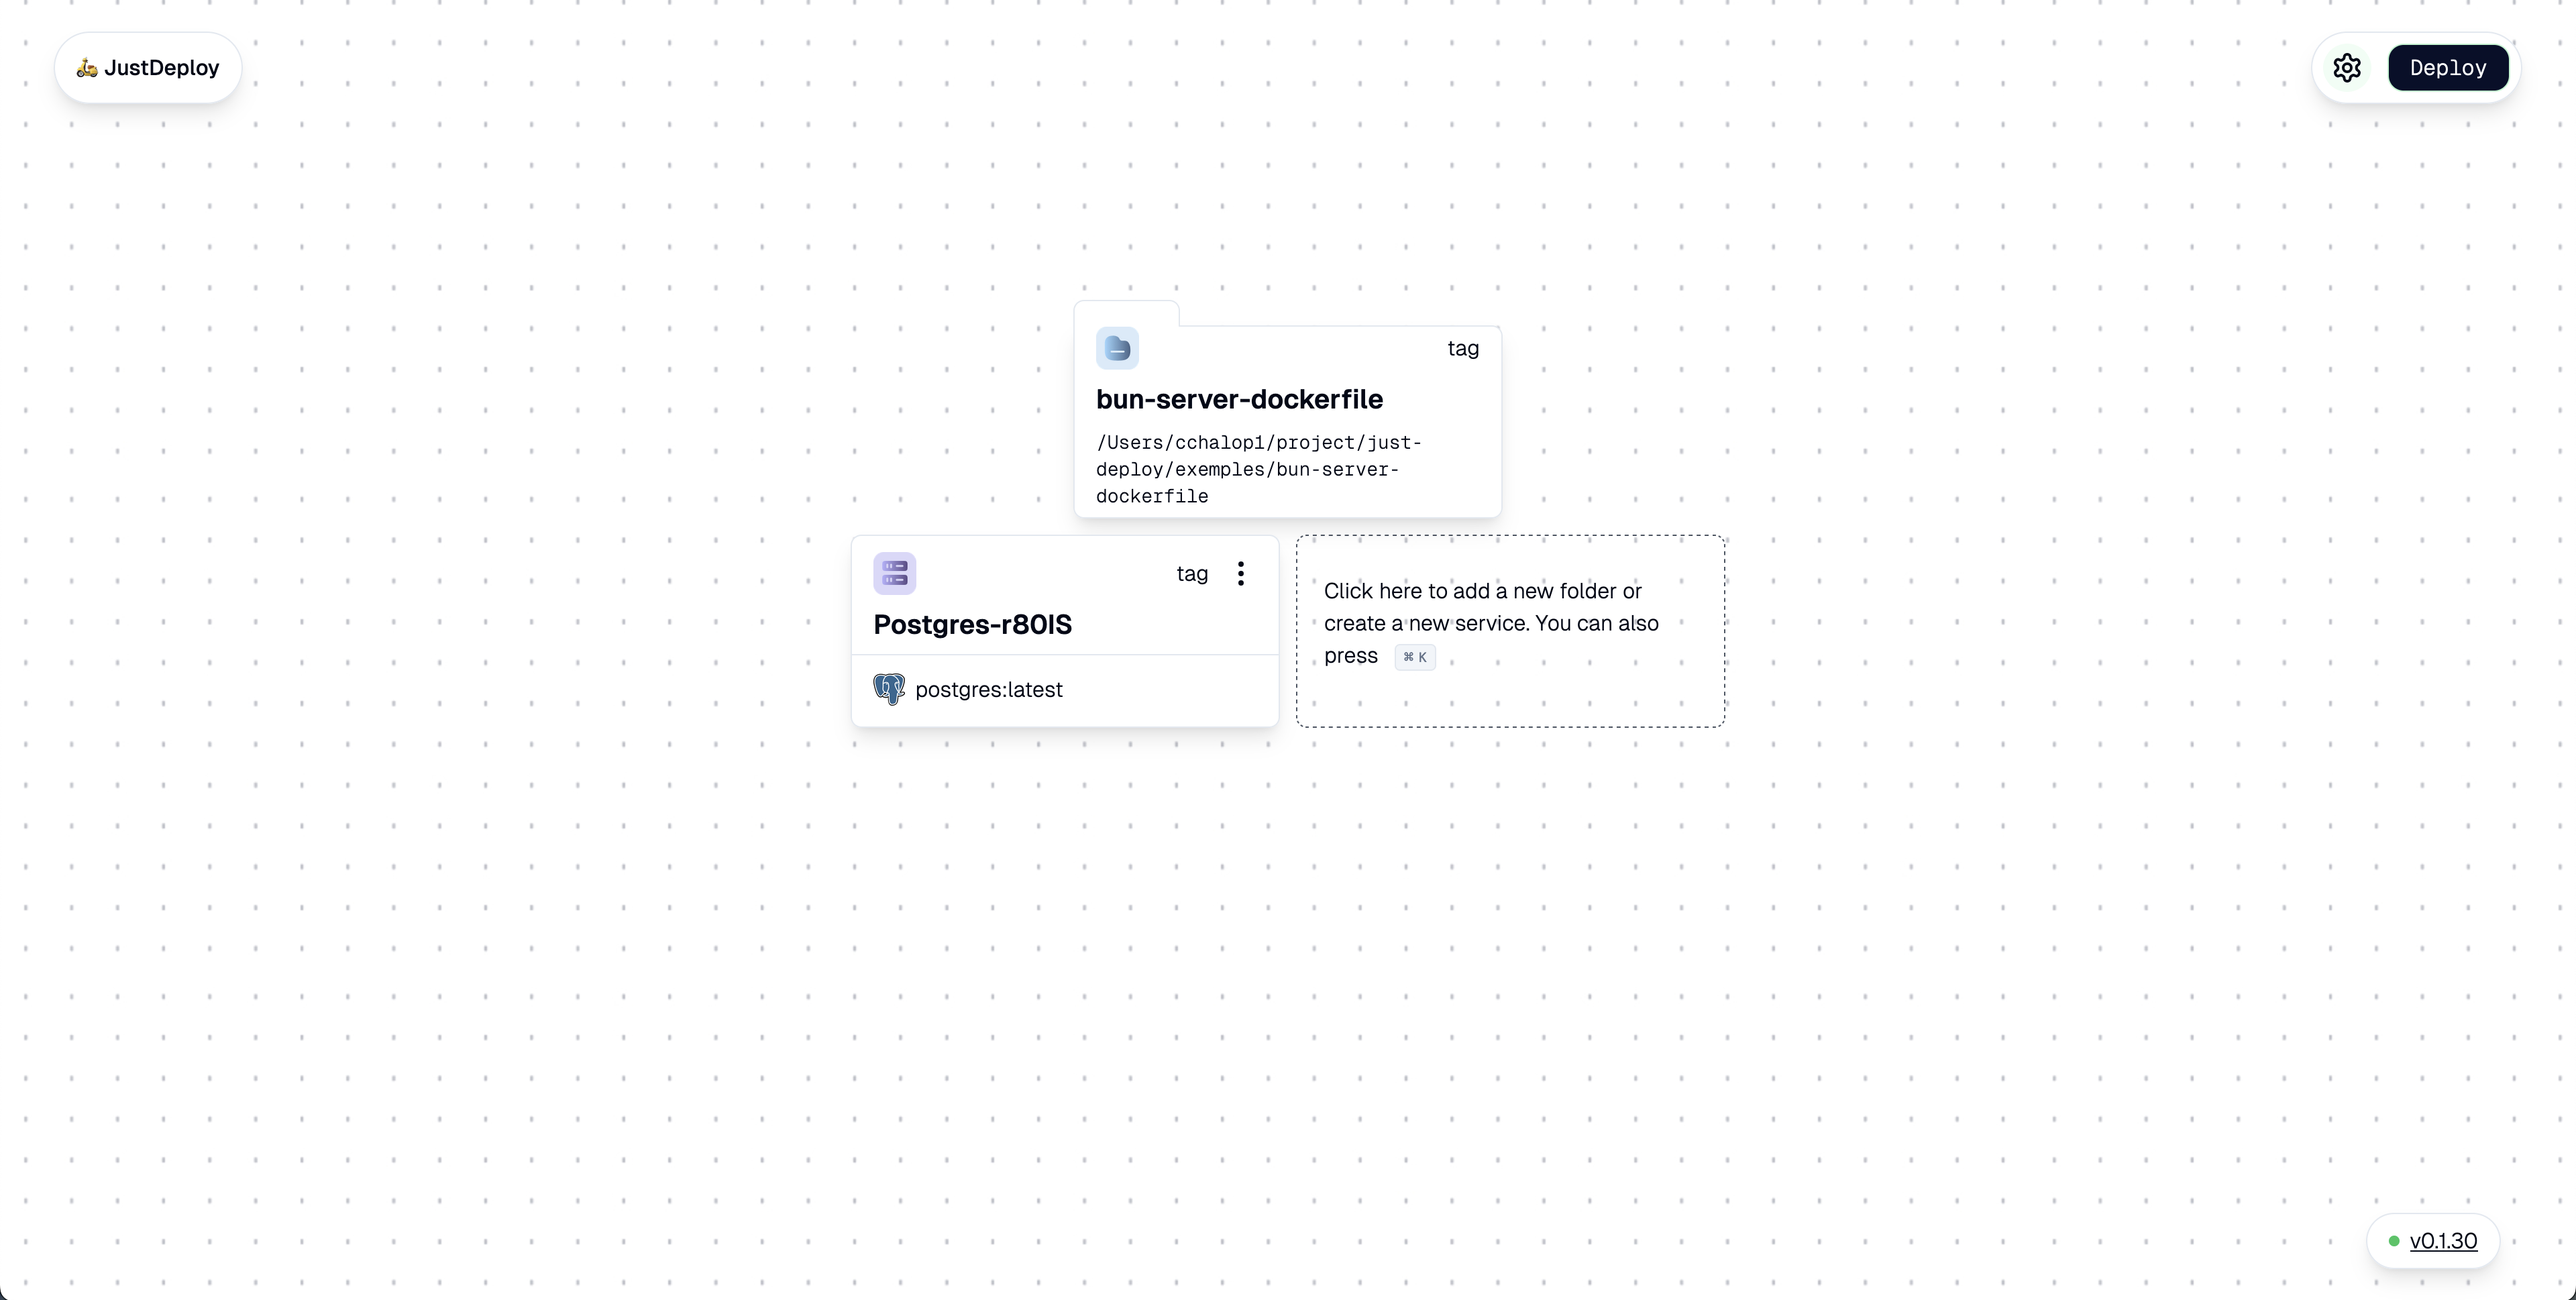
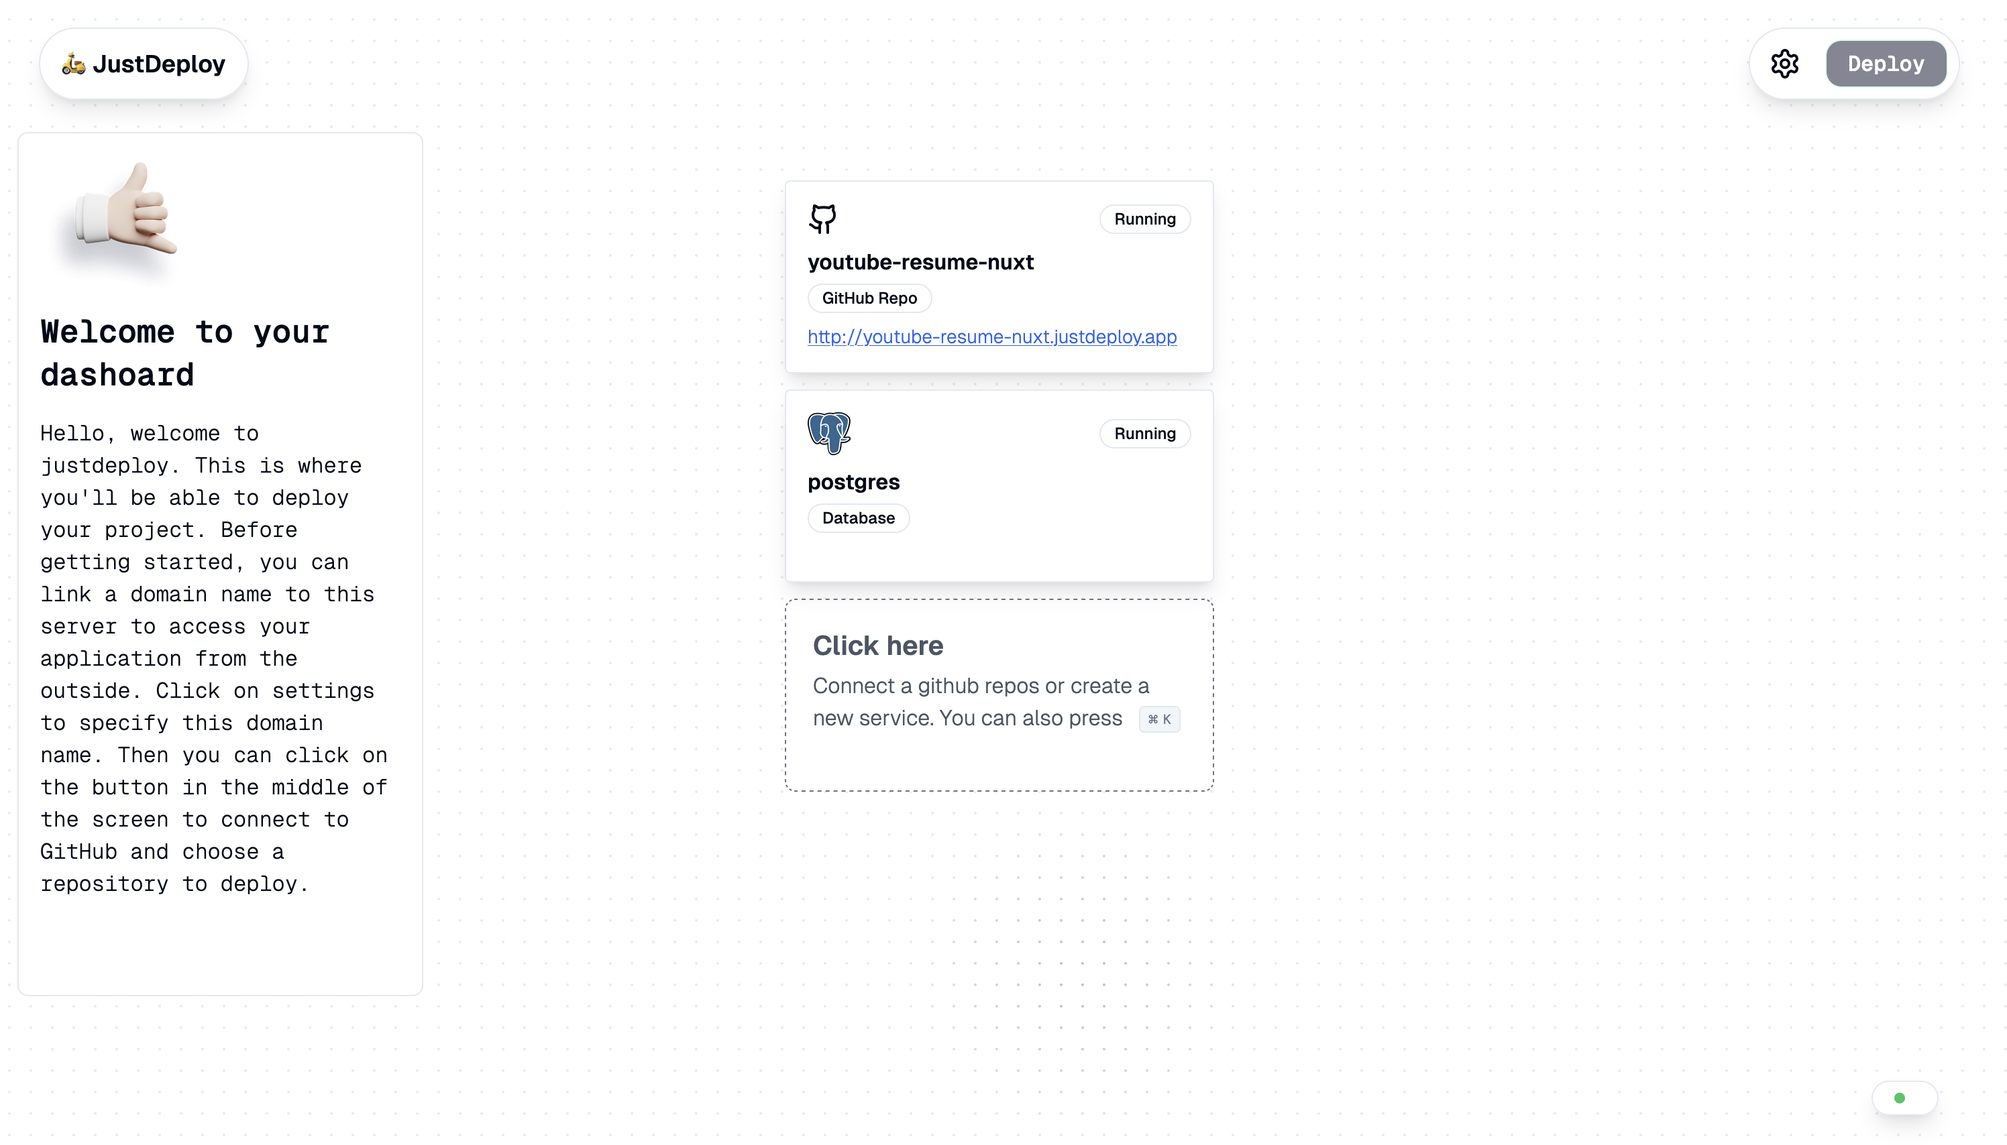
update readme

diff --git a/web/src/components/ServiceCard.tsx b/web/src/components/ServiceCard.tsx
@@ -8,15 +8,13 @@ type ServiceCardProps = {
 };
 
 export default function ServiceCard({ service, onClick }: ServiceCardProps) {
-  const isPreconfiguredService = service.type === "database";
-
   return (
     <div
       className={`relative w-80 h-36 bg-white border rounded shadow-lg hover:shadow-xl cursor-pointer p-4 flex flex-col`}
       onClick={onClick}
     >
       <div className="flex justify-between items-center">
-        {isPreconfiguredService && service.imageUrl ? (
+        {service.imageUrl ? (
           <img
             src={service.imageUrl}
             alt={service.name}

diff --git a/README.md b/README.md
@@ -11,14 +11,14 @@
 
 <br>
 
-JustDeploy is a command-line tool designed to simplify the lives of developers. Install it on your machine to easily manage databases, environments, and projects, all while deploying to any VPS of your choice. Forget about vendor lock-in—deploy wherever you want.
+JustDeploy is a PaaS tool designed to simplify the lives of developers. Install it on your server to easily deploy your projects and databases. It's based on Docker, so JustDeploy fetches your GitHub repository and deploys your application using your Docker and Docker Compose configurations. All while deploying to any VPS of your choice. Forget about vendor lock-in—deploy wherever you want.
 
 <br>
 
 ## Features
 
-- 🚀 **Start a database locally in one click**
-- 🔧 **Manage environments seamlessly**
+- 🚀 **Deploy full-stack apps in one click**
+- ⚙ **Manage environments seamlessly**
 - 🗂 **Project Management**
 - 🌐 **Deploy on any VPS**
 - 🔓 **No vendor lock-in—deploy wherever you want**
@@ -39,7 +39,9 @@ Before getting started, ensure your development machine has the following instal
 
 ## Installation
 
-To install JustDeploy on your local machine, run the following command:
+To install JustDeploy on your server, run the following command:
+
+Your server needs to be running Debian.
 
 ```bash
 curl -fsSL https://raw.githubusercontent.com/cchalop1/JustDeploy/refs/heads/main/install.sh | bash
@@ -49,24 +51,21 @@ curl -fsSL https://raw.githubusercontent.com/cchalop1/JustDeploy/refs/heads/main
 
 ## Usage
 
-After installation, JustDeploy runs locally on your development machine (not on the VPS). Simply run the following command to launch the CLI tool and start managing your projects, databases, and deployments:
-
-```bash
-justdeploy
-```
+After installation, JustDeploy runs on your server and you can access it by clicking on the URL displayed at the end of the installation process. You can then access the web interface from your local computer.
 
 With this, you'll be able to:
 
-- Set up new databases in just one click.
-- Manage and configure environments for your applications.
-- Deploy your project to any VPS of your choice without being locked into a particular provider.
+- Connect your GitHub account
+- Set up new databases in just one click
+- Manage and configure environments for your applications
+- Deploy your project to any VPS of your choice without being locked into a particular provider
+- Enjoy zero-config deployment as JustDeploy extracts information from your GitHub repo to deploy your full-stack application
 
 ---
 
 ## Why Choose JustDeploy?
 
 - **Full Control**: Deploy where you want without extra costs or limitations.
-- **Local First**: Manage everything from your local environment.
 - **Developer-Friendly**: Intuitive and designed to simplify everyday tasks for developers.
 
 ---
@@ -83,4 +82,4 @@ With this, you'll be able to:
 
 ## License
 
-This project is licensed under AGPL-3.0 License. See the [LICENSE](https://github.com/cchalop1/JustDeploy/blob/main/LICENSE) file for more details.
+This project is licensed under the AGPL-3.0 License. See the [LICENSE](https://github.com/cchalop1/JustDeploy/blob/main/LICENSE) file for more details.
